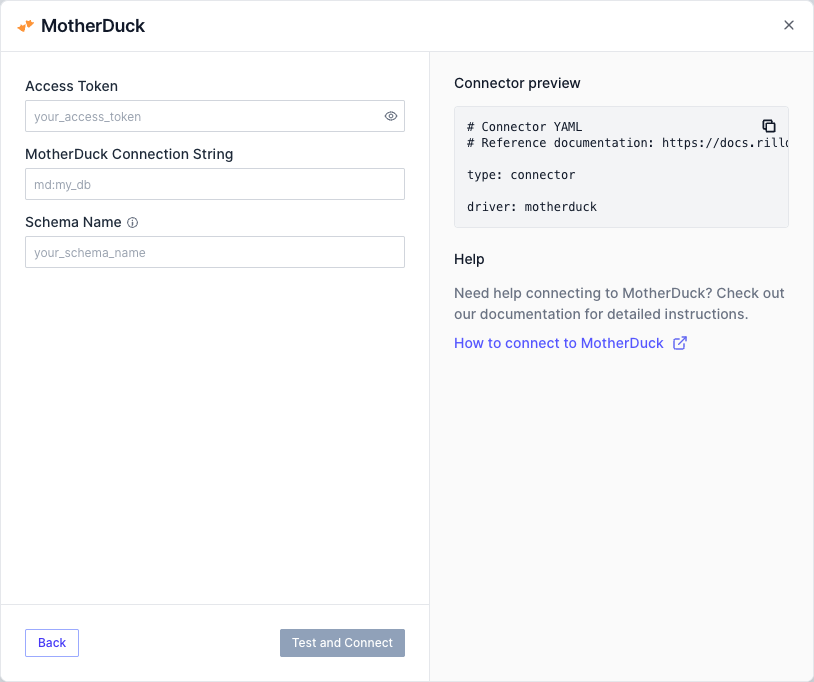
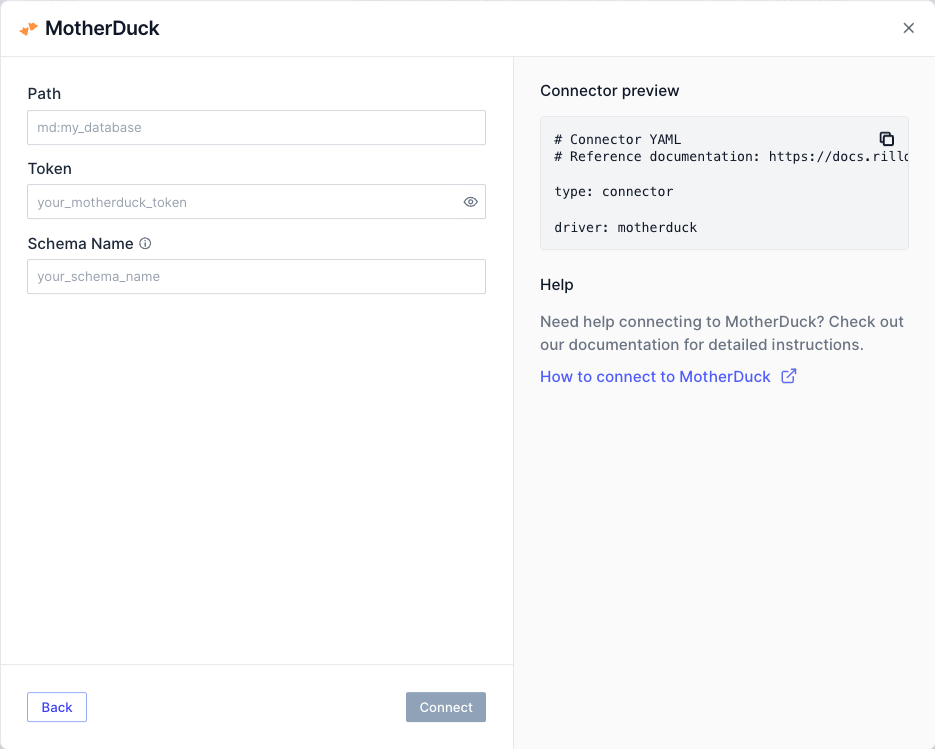
requsaeted updated to md docs and duckdb fixes

diff --git a/docs/docs/connect/olap/motherduck.md b/docs/docs/connect/olap/motherduck.md
@@ -19,22 +19,7 @@ Rill supports connecting to MotherDuck and using it as an OLAP engine to power d
 Rill supports connecting to MotherDuck using the latest DuckDB-compatible drivers and protocols.
 :::
 
-## Configuring Rill Developer with MotherDuck
-
-When using MotherDuck for local development, you can connect using your MotherDuck access token. The connection is established through MotherDuck's secure API endpoints.
-
-1. Connect to your OLAP engine via Add Data. This will automatically create the motherduck.yaml file in your connectors folder and populate the .env file with `.connector.motherduck.token`.
-
-For more information on supported parameters, see our [MotherDuck connector YAML reference docs](/reference/project-files/connectors#motherduck).
-
-<img src='/img/connect/olap-engines/motherduck/motherduck-connector.png' class='rounded-gif' style={{width: '75%', display: 'block', margin: '0 auto'}} />
-
-
 ## Getting Your MotherDuck Access Token
-
-<img src='/img/connect/olap-engines/motherduck/service-token.png' class='rounded-gif' />
-<br />
-
 
 To connect to MotherDuck, you'll need a access token from your MotherDuck account:
 
@@ -42,7 +27,9 @@ To connect to MotherDuck, you'll need a access token from your MotherDuck accoun
 2. Navigate to the **Settings** section
 3. Go to **Access Tokens**
 4. Create a new access token or copy an existing one
-5. Use this token as the value for `motherduck_token` in your `.env` file
+   
+<img src='/img/connect/olap-engines/motherduck/service-token.png' class='rounded-gif' />
+<br />
 
 :::warning Keep Your Token Secure
 
@@ -50,13 +37,41 @@ Your MotherDuck access token provides access to your data. Keep it secure and ne
 
 :::
 
-## Connection Configuration
 
-MotherDuck connections are established through secure API endpoints. The connection is automatically configured when you provide your access token:
+## Configuring Rill Developer with MotherDuck
 
-```bash
-motherduck.token="your_motherduck_service_token_here"
+Connect to your OLAP engine via Add Data. This will automatically create the motherduck.yaml file in your connectors folder and populate the .env file with `.connector.motherduck.token`.
+
+For more information on supported parameters, see our [MotherDuck connector YAML reference docs](/reference/project-files/connectors#motherduck).
+
+<img src='/img/connect/olap-engines/motherduck/motherduck-connector.png' class='rounded-gif' style={{width: '75%', display: 'block', margin: '0 auto'}} /> <br/>
+
+Once completed, you'll see a similar file generated under `connectors/motherduck.yaml`.
+
+```yaml
+# Connector YAML
+# Reference documentation: https://docs.rilldata.com/reference/project-files/connectors
+  
+type: connector 
+driver: duckdb 
+token: '{{ .env.connector.motherduck.token }}' 
+path: "md:my_database" 
+schema_name: "my_schema"
 ```
+
+### Setting the Default OLAP Connection
+
+Creating a connection to MotherDuck will automatically add the `olap_connector` property in your project's [rill.yaml](/reference/project-files/rill-yaml) and change the default OLAP engine to `motherduck`.
+
+```yaml
+olap_connector: motherduck
+```
+
+:::info Interested in using multiple OLAP engines in the same project?
+
+Please see our [Using Multiple OLAP Engines](/connect/olap/multiple-olap) page.
+:::
+
 
 ## Configuring Rill Cloud
 
@@ -72,18 +87,6 @@ When deploying a MotherDuck-backed project to Rill Cloud, you have the following
 Note that you must `cd` into the Git repository that your project was deployed from before running `rill env configure`.
 :::
 
-## Setting the Default OLAP Connection
-
-Creating a connection to MotherDuck will automatically add the `olap_connector` property in your project's [rill.yaml](/reference/project-files/rill-yaml) and change the default OLAP engine to MotherDuck.
-
-```yaml
-olap_connector: motherduck
-```
-
-:::info Interested in using multiple OLAP engines in the same project?
-
-Please see our [Using Multiple OLAP Engines](/connect/olap/multiple-olap) page.
-:::
 
 
 ## Additional Notes

diff --git a/docs/docs/connect/data-source/duckdb.md b/docs/docs/connect/data-source/duckdb.md
@@ -1,0 +1,61 @@
+---
+title: External DuckDB File
+description: Connect to external DuckDB databases and ingest data into Rill
+sidebar_label: External DuckDB 
+sidebar_position: 11
+---
+
+<!-- WARNING: There are links to this page in source code. If you move it, find and replace the links and consider adding a redirect in docusaurus.config.js. -->
+
+[DuckDB](https://duckdb.org/docs/) is a fast, lightweight database designed for data analysis. While Rill includes a [built-in DuckDB database](/connect/olap/duckdb) that stores all your ingested data by default, you may want to import existing data from your own DuckDB files.
+
+## Overview
+
+While we support local usage of your [external DuckDB](/connect/olap/duckdb) as a "live connector", this approach isn't scalable when deploying your project to Rill Cloud. Instead, you can use the DuckDB connector to ingest the required tables into Rill's managed DuckDB database, ensuring your project works seamlessly in both local and cloud environments.
+
+:::warning Location of local DuckDB
+
+If your DuckDB file exists outside of your project folder, it will not be included in the deployment. To ensure a smooth deployment process, move your DuckDB file into the `data/` folder within your project directory. Also, there is a file limitation of 100MB. [Contact us](/contact) if you are having issues with deploying to Rill Cloud.
+
+:::
+
+## Connecting to External DuckDB
+
+To import your existing DuckDB data into Rill, you'll need to establish a connection to your external DuckDB database. Once connected, the data will be read from your external database and ingested into Rill's built-in DuckDB database.
+
+When creating a new DuckDB source from the UI, provide the appropriate path to your DuckDB database file in the **path** field. For a complete list of available properties, see our [reference documentation](/reference/project-files/connectors#external-duckdb).
+
+<img src='/img/connect/data-sources/duckdb.png' class='rounded-gif' style={{width: '75%', display: 'block', margin: '0 auto'}}/>
+<br />
+
+## Using DuckDB Extensions
+
+DuckDB supports a wide variety of extensions that can enhance its functionality. To use extensions with Rill's embedded DuckDB, configure them in your connector:
+
+```yaml
+# connectors/duckdb.yaml
+type: connector
+driver: duckdb
+init_sql: |
+  INSTALL httpfs;
+  LOAD httpfs;
+  INSTALL spatial;
+  LOAD spatial;
+```
+
+### Popular Extensions
+
+For a complete list of available extensions, see the [DuckDB Extensions documentation](https://duckdb.org/docs/extensions/overview).
+
+
+## Creating a Model
+
+After establishing the connection, create a model through the connector UI. This process will read data from your external DuckDB database and ingest it into Rill's managed DuckDB database, making it available for analysis and visualization.
+
+<img src='/img/connect/data-sources/create-model.png' class='rounded-gif' />
+<br />
+
+## Cloud Deployment Considerations
+
+When deploying to Rill Cloud, only the contents of your Rill project directory will be uploaded. If your DuckDB file exists outside of your project folder, it will not be included in the deployment. To ensure a smooth deployment process, move your DuckDB file into the `data/` folder within your project directory.
+

diff --git a/docs/docs/connect/olap/duckdb.md b/docs/docs/connect/olap/duckdb.md
@@ -7,7 +7,7 @@ sidebar_position: 10
 
 [DuckDB](https://duckdb.org/why_duckdb.html) is an in-memory, columnar SQL database designed for analytical (OLAP) workloads, offering high-speed data processing and analysis. Its columnar storage model and vectorized query execution make it highly efficient for OLAP tasks, enabling fast aggregation, filtering, and joins on large datasets. DuckDB's ease of integration with data science tools and its ability to run directly within analytical environments like Python and R, without the need for a separate server, make it an attractive choice for OLAP applications seeking simplicity and performance.
 
-By default, Rill includes DuckDB as an embedded OLAP engine that is used to ingest data from [sources](/connect) and power your dashboards. Nothing more needs to be done if you wish to power your dashboards on Rill Developer or Rill Cloud. 
+By default, Rill includes DuckDB as an embedded OLAP engine that is used to ingest data from [data sources](/connect) and power your dashboards. Nothing more needs to be done if you wish to power your dashboards on Rill Developer or Rill Cloud. 
 
 However, you may need to add additional extensions into the embedded DuckDB Engine. To do so, you'll need to define the [Connector YAML](/reference/project-files/connectors#duckdb) and use `init_sql` to install/load/set `extension_name`.
 
@@ -19,22 +19,22 @@ DuckDB is a very useful analytical engine but can start to hit performance and s
 
 ## Connecting to External DuckDB
 
-Along with our embedded DuckDB, Rill provides the ability to connect to external DuckDB database files. This allows you to leverage existing DuckDB databases inside of Rill to create metrics views and dashboards.
+Along with our embedded DuckDB, Rill provides the ability to connect to your external DuckDB database files as a "live connector". This allows you to leverage existing DuckDB databases inside of Rill to create metrics views and dashboards.
 
-### Configuration
+:::warning LOCAL USE ONLY
 
-<img src='/img/connect/connector/duckdb.png' class='rounded-gif' style={{width: '75%', display: 'block', margin: '0 auto'}}/>
-<br />
-
-
-:::warning File Location and Size
-
-When using Rill locally, you can connect to any file on your filesystem without issues. However, when deploying to Rill Cloud, Rill can only access files within its project directory. If your DuckDB file is located outside of this folder, Rill will be unable to bundle it for deployment.
+This setup is equivalent to connecting to a localhost database for local testing and will not be deployable in Rill Cloud under most circumstances. This is because when deploying to Rill Cloud, Rill can only access files within its project directory. If your DuckDB file is located outside of this folder, Rill will be unable to bundle it for deployment.
 
 Additionally, due to upload size limits, files larger than 100MB will fail to deploy.
 
 :::
 
+### Configuration
+
+<img src='/img/connect/olap-engines/duckdb/duckdb.png' class='rounded-gif' style={{width: '75%', display: 'block', margin: '0 auto'}}/>
+<br />
+
+<!-- ## Attaching  Ducklake -->
 
 
 ## Using DuckDB Extensions

diff --git a/docs/docs/reference/project-files/connectors.md b/docs/docs/reference/project-files/connectors.md
@@ -32,6 +32,7 @@ Connector YAML files define how Rill connects to external data sources and OLAP 
 - [**S3**](#s3) - Amazon S3 storage
 
 ### _Other_
+- [**Extenral DuckDB**](#external-duckdb) - External DuckDB database
 - [**HTTPS**](#https) - Public files via HTTP/HTTPS
 - [**OpenAI**](#openai) - OpenAI data
 - [**Salesforce**](#salesforce) - Salesforce data
@@ -442,6 +443,28 @@ init_sql: "INSTALL httpfs; LOAD httpfs;" # SQL executed during database initiali
 log_queries: true # Whether to log raw SQL queries executed through OLAP
 ```
 
+## External DuckDB
+
+### `driver`
+
+_[string]_ - Refers to the driver type and must be driver `duckdb` _(required)_
+
+### `path`
+
+_[string]_ - Path to the DuckDB database 
+
+### `mode`
+
+_[string]_ - Set the mode for the DuckDB connection. 
+
+```yaml
+# Example: DuckDB as a source connector configuration
+type: connector # Must be `connector` (required)
+driver: duckdb # Must be `duckdb` _(required)_
+path: "/path/to/my-duckdb-database.db" # Name of the DuckDB database  
+mode: "read" # Set the mode for the DuckDB connection. 
+```
+
 ## GCS
 
 ### `driver`
@@ -503,7 +526,7 @@ headers:
 
 ### `driver`
 
-_[string]_ - Refers to the driver type and must be driver `motherduck` _(required)_
+_[string]_ - Refers to the driver type and must be driver `duckdb`. _(required)_
 
 ### `path`
 
@@ -528,7 +551,7 @@ _[string]_ - Set the mode for the MotherDuck connection. By default, it is set t
 ```yaml
 # Example: MotherDuck connector configuration
 type: connector # Must be `connector` (required)
-driver: motherduck # Must be `motherduck` _(required)_
+driver: duckdb # Must be `duckdb` _(required)_
 token: '{{ .env.connector.motherduck.token }}' # Set the MotherDuck token from your .env file _(required)_
 path: "md:my_database" # Path to your MD database  
 schema_name: "my_schema" # Define your schema if not main, uses main by default  
@@ -547,7 +570,7 @@ The DSN must follow the standard MySQL URI scheme:
 ```text
 mysql://user:password@host:3306/my-db
 ```
-Rules for special characters:
+Rules for special characters in password:
 - The following characters are allowed [unescaped in the URI](https://datatracker.ietf.org/doc/html/rfc3986#section-2.3): `~` `.` `_` `-`
 - All other special characters must be percent-encoded (`%XX` format).
 ```text
